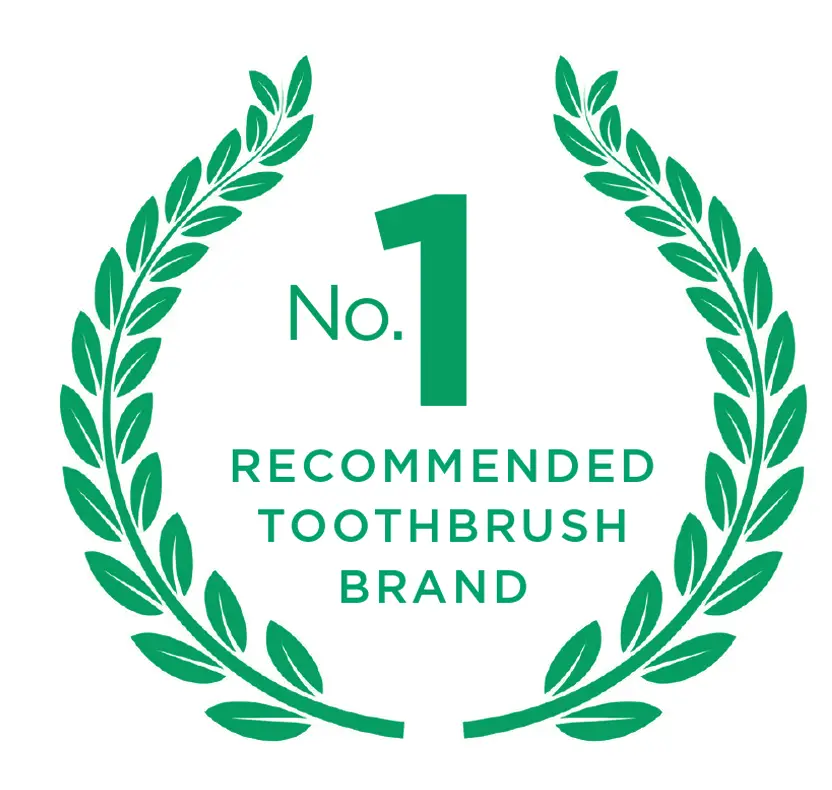
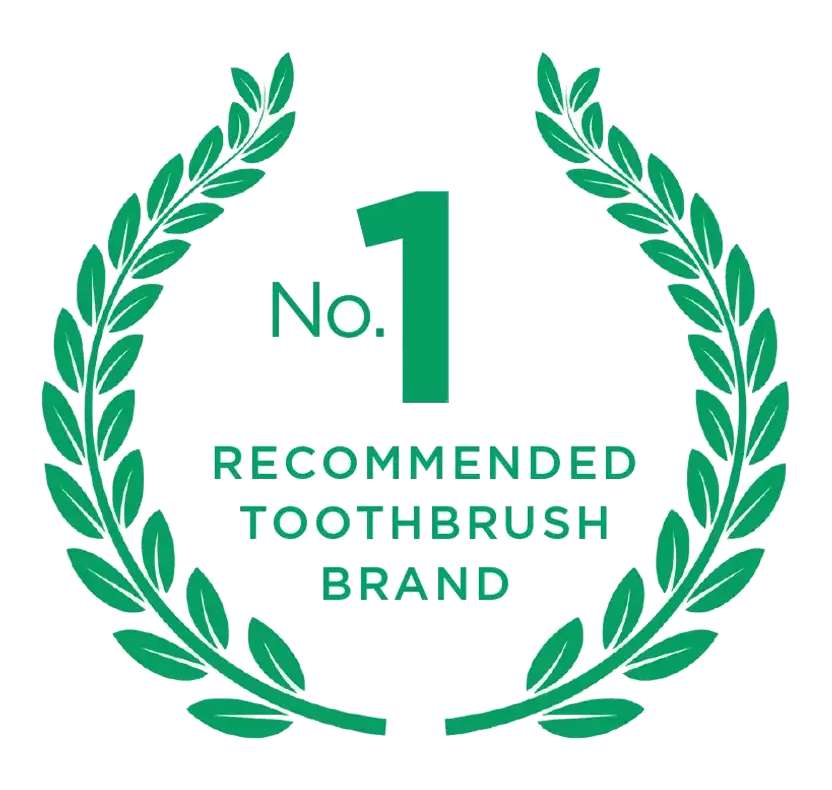
updated toothbrush and btx

diff --git a/src/routes/Btc/Btc.styles.ts b/src/routes/Btc/Btc.styles.ts
@@ -23,16 +23,13 @@ export const FlossBG = styled.div`
 
 
 export const ContentLeft = styled.div`
-  width: 72%;
+  width: 100%;
   display: flex;
   flex-direction: column;
-  padding: 0 0 40px 3.4rem;
+  padding: 0 0 40px 3.2rem;
   height: 100%;
   z-index: 99;
 
-  @media screen and (max-width: 1386px) {
-    padding-left: 3.2rem;
-  }
 `;
 
 
@@ -51,10 +48,6 @@ export const FlossImg = styled.img`
   height: auto; 
   object-fit: contain;
   max-height: 100%; 
-
-  @media screen and (min-width: 2100px) {
-    width: 70%;
-  }
 `;
 
 export const IntroTitleWrapper = styled.div`
@@ -62,10 +55,6 @@ export const IntroTitleWrapper = styled.div`
   flex: 1;
   display: flex;
   align-items: flex-end;
-
-  @media screen and (min-width: 2100px) {
-    padding-left: 2.4rem;
-  }
 `;
 
 export const IntroTitle = styled.h1`
@@ -75,10 +64,6 @@ export const IntroTitle = styled.h1`
   font-size: 3.4rem;
   line-height: 0.9;
   letter-spacing: -3px;
-
-  @media screen and (min-width: 2100px) {
-    font-size: 7.4rem;
-  }
 `;
 
 export const RecommendedWrapper = styled.div`
@@ -90,36 +75,24 @@ export const RecommendedWrapper = styled.div`
   h3 {
     font-family: "Gotham", sans-serif;
     color: ${colors.primary};
-    font-weight: 400;
-    font-size: clamp(24px, 1.6vw, 3.2rem);
+    font-weight: 300;
+    font-size: clamp(28px, 1.6vw, 3.2rem);
     margin-top: 1.2rem;
     margin-left: 1.2rem;
   }
 `;
 
 export const Recommended = styled.img`
-  width: 50%;
+  width: 42%;
   height: auto;
 `;
 
 export const LinksWrapper = styled.div`
   display: flex;
-  // gap: 1.8rem;
-  // margin-left: -3.2rem;
   -webkit-tap-highlight-color: transparent;
   align-items: center;
   flex: 1;
-
-  @media screen and (max-width: 1386px) {
-    width: 100%;
-  }
-
-  @media screen and (min-width: 2100px) {
-     padding-left: 2rem;
-     width: 100%;
-     gap: 3rem;
-     margin-left: 0;
- }
+  width: 70%;
 `;
 
 
@@ -129,15 +102,7 @@ export const StyledLink = styled(Link)`
 `;
 
 export const LinkImg = styled.img`
-  width: 70%;
+  width: 85%;
   height: auto;
   aspect-ratio: 244/291;
-
-  @media screen and (max-width: 1386px) {
-    width: 80%;
-  }
-
-  @media screen and (min-width: 2100px) {
-    width: 13vw;
- }
 `;

diff --git a/src/routes/Toothbrush/Toothbrush.styles.ts b/src/routes/Toothbrush/Toothbrush.styles.ts
@@ -23,7 +23,7 @@ export const BrushBG = styled.div`
 
 
 export const ContentLeft = styled.div`
-  width: 72%;
+  width: 100%;
   display: flex;
   flex-direction: column;
   padding: 0 0 40px 3.4rem;
@@ -44,7 +44,7 @@ export const ContentRight = styled.div`
 
 
 export const BrushesImg = styled.img`
-  width: 68%; 
+  width: 78%; 
   height: auto; 
   object-fit: contain;
   max-height: 100%; 
@@ -75,15 +75,15 @@ export const RecommendedWrapper = styled.div`
   h3 {
     font-family: "Gotham", sans-serif;
     color: ${colors.primary};
-    font-weight: 400;
-    font-size: clamp(24px, 1.6vw, 3.2rem);
+    font-weight: 300;
+    font-size: clamp(28px, 1.6vw, 3.2rem);
     margin-top: 1.2rem;
     margin-left: 1.2rem;
   }
 `;
 
 export const Recommended = styled.img`
-  width: 50%;
+  width: 42%;
   height: auto;
 `;
 
@@ -92,6 +92,7 @@ export const LinksWrapper = styled.div`
   -webkit-tap-highlight-color: transparent;
   align-items: center;
   flex: 1;
+  width: 70%;
 `;
 
 
@@ -101,7 +102,7 @@ export const StyledLink = styled(Link)`
 `;
 
 export const LinkImg = styled.img`
-  width: 80%;
+  width: 85%;
   height: auto;
   aspect-ratio: 244/291;
 `;

diff --git a/src/routes/Toothbrush/ToothbrushTech/ToothbrushTech.tsx b/src/routes/Toothbrush/ToothbrushTech/ToothbrushTech.tsx
@@ -7,13 +7,10 @@ import Circle2 from "../../../assets/toothbrush/tech/circle-2.webp";
 import Circle2Active from "../../../assets/toothbrush/tech/circle-2-active.webp";
 import Circle3 from "../../../assets/toothbrush/tech/circle-3.webp";
 import Circle3Active from "../../../assets/toothbrush/tech/circle-3-active.webp";
-import Circle4 from "../../../assets/toothbrush/tech/circle-4.webp";
-import Circle4Active from "../../../assets/toothbrush/tech/circle-4-active.webp";
 
 import QuadGripDisplay from './display/QuadGrip/QuadGrip';
 import TaperedBristles from './display/TaperedBristles/TaperedBristles';
 import DomeTrim from "./display/DomeTrim/DomeTrim";
-import TexturedBristles from "./display/TexturedBristles/TexturedBristles";
 
 import playSound from "../../../utils/playSound";
 import tapTop from "../../../assets/sounds/taptop.mp3";
